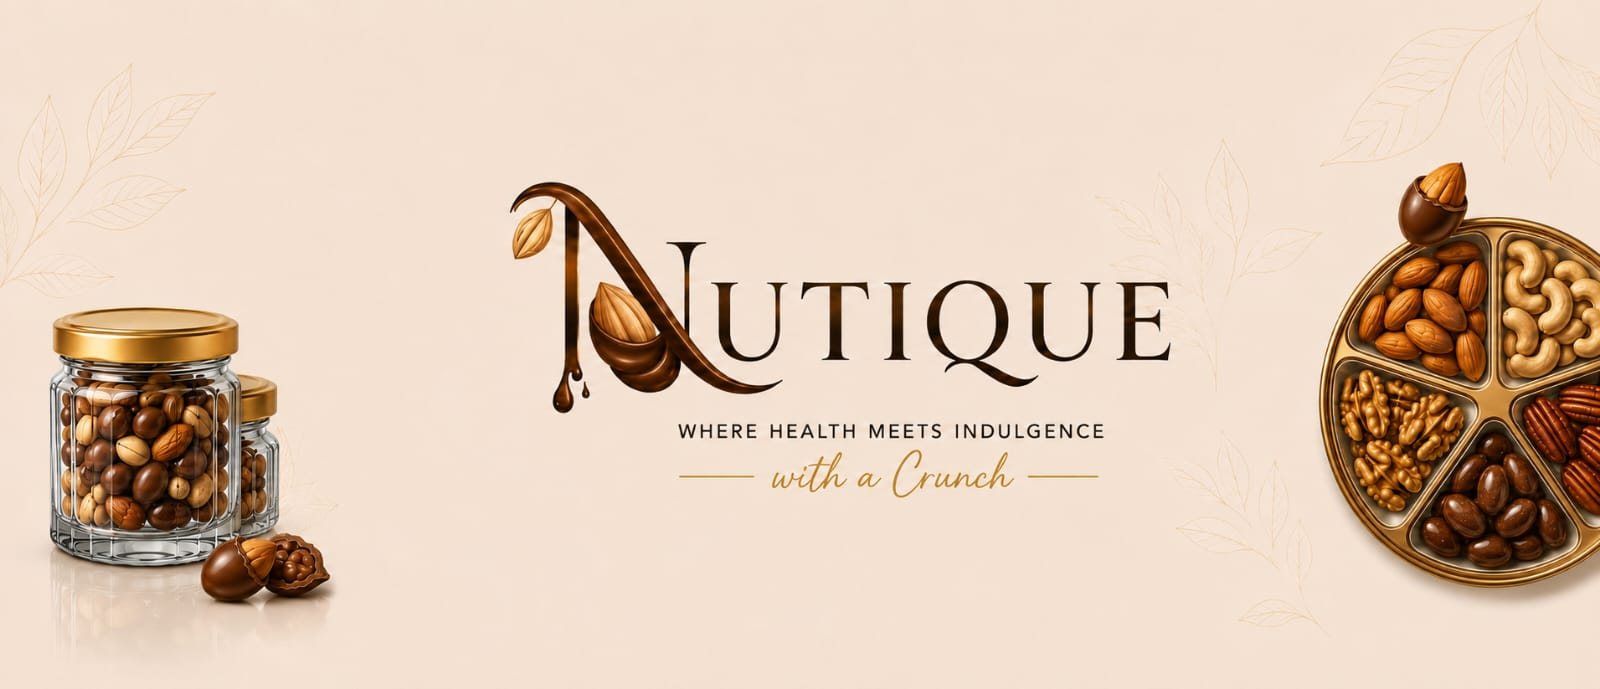
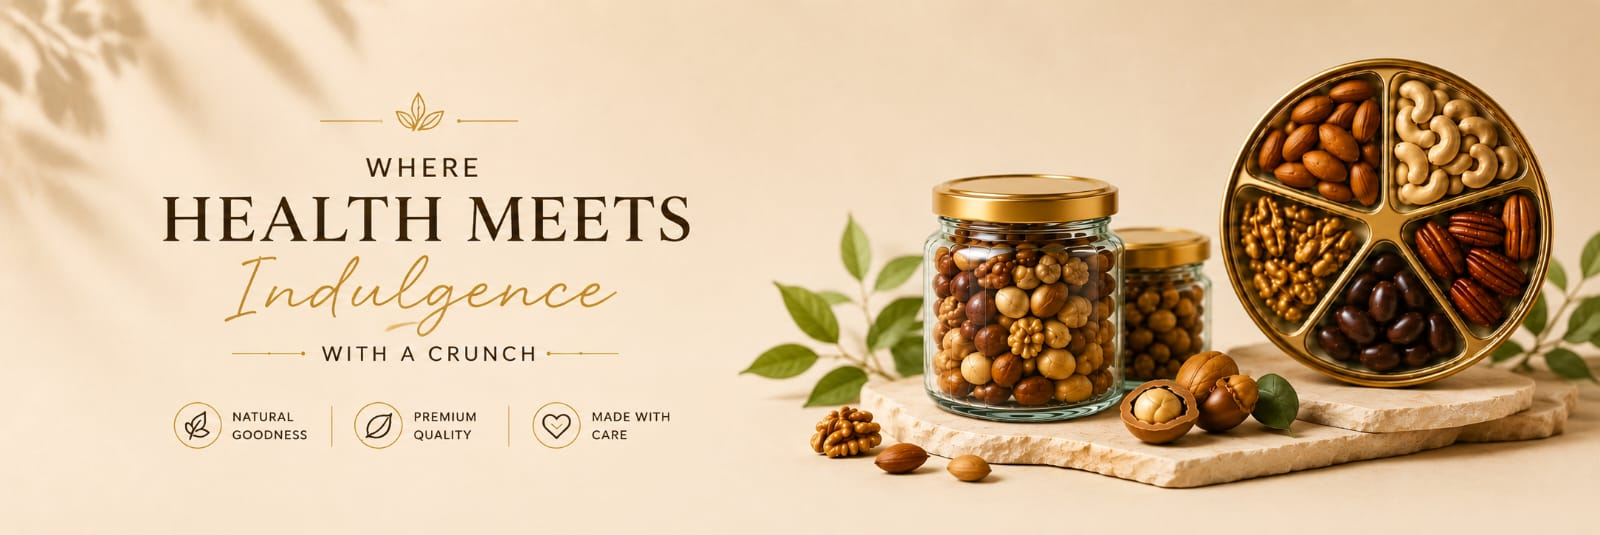
add

diff --git a/index.html b/index.html
@@ -150,8 +150,8 @@
                         <!-- Left Side: Image -->
                         <div class="promo-image">
                             <a >
-                                <img src="https://cdn.shopify.com/s/files/1/0616/8464/6110/files/Image-under-the-banner---mothers-day-3.png?v=1777012134"
-                                    alt="Mother's Day Collection">
+                                <img src="assets/MIX.jpeg"
+                                    alt="The Nutique Signature Medley">
                             </a>
                         </div>
 
@@ -190,7 +190,7 @@
                         <div class="category-item">
                             <div class="category-image-wrapper">
                                 <a >
-                                    <img src="https://www.lalschocolates.com/cdn/shop/files/Best-wishes-eid-hamper-image-1b_1_1_540x.jpg?v=1756293482"
+                                    <img src="assets/almonds.jpeg"
                                         alt="Gift Hampers">
                                 </a>
                             </div>
@@ -205,7 +205,7 @@
                         <div class="category-item">
                             <div class="category-image-wrapper">
                                 <a >
-                                    <img src="https://www.lalschocolates.com/cdn/shop/files/confetti_cake_1_1_1_540x.jpg?v=1756293498"
+                                    <img src="assets/cashew.jpeg"
                                         alt="Cakes">
                                 </a>
                             </div>
@@ -220,7 +220,7 @@
                         <!-- Item 3: Gelato -->
                         <div class="category-item">
                             <div class="category-image-wrapper">
-                                    <img src="https://www.lalschocolates.com/cdn/shop/files/freshly_made_gelato-min_540x.webp?v=1709201721"
+                                    <img src="assets/peanuts.jpeg"
                                         alt="Gelato">
                                 </a>
                             </div>
@@ -238,7 +238,7 @@
                         <div class="category-item">
                             <div class="category-image-wrapper">
                                 <a >
-                                    <img src="https://www.lalschocolates.com/cdn/shop/files/Best-wishes-eid-hamper-image-1b_1_1_540x.jpg?v=1756293482"
+                                    <img src="assets/pista.jpeg"
                                         alt="Gift Hampers">
                                 </a>
                             </div>
@@ -254,7 +254,7 @@
                         <div class="category-item">
                             <div class="category-image-wrapper">
                                 <a >
-                                    <img src="https://www.lalschocolates.com/cdn/shop/files/confetti_cake_1_1_1_540x.jpg?v=1756293498"
+                                    <img src="assets/rasins.jpeg"
                                         alt="Cakes">
                                 </a>
                             </div>
@@ -270,7 +270,7 @@
                         <div class="category-item">
                             <div class="category-image-wrapper">
                                 <a >
-                                    <img src="https://www.lalschocolates.com/cdn/shop/files/freshly_made_gelato-min_540x.webp?v=1709201721"
+                                    <img src="assets/wallnuts.jpeg"
                                         alt="Gelato">
                                 </a>
                             </div>

diff --git a/products/Cashew.html b/products/Cashew.html
@@ -132,7 +132,7 @@
                     <div class="product-images-col">
                         <div class="sticky-image-wrapper">
                             <div class="main-image-container">
-                                <img src="https://www.lalschocolates.com/cdn/shop/products/choccoatedalmonds.jpg?v=1672313245"
+                                <img src="../assets/cashew.jpeg"
                                     alt="Chocolate Coated Almonds" class="primary-img">
                                 <div class="zoom-icon">
                                     <i class="pe-7s-expand1"></i>

diff --git a/products/Peanut.html b/products/Peanut.html
@@ -131,7 +131,7 @@
                     <div class="product-images-col">
                         <div class="sticky-image-wrapper">
                             <div class="main-image-container">
-                                <img src="https://www.lalschocolates.com/cdn/shop/products/choccoatedalmonds.jpg?v=1672313245"
+                                <img src="../assets/peanuts.jpeg"
                                     alt="Chocolate Coated Almonds" class="primary-img">
                                 <div class="zoom-icon">
                                     <i class="pe-7s-expand1"></i>

diff --git a/products/Pistachio.html b/products/Pistachio.html
@@ -131,7 +131,7 @@
                     <div class="product-images-col">
                         <div class="sticky-image-wrapper">
                             <div class="main-image-container">
-                                <img src="https://www.lalschocolates.com/cdn/shop/products/choccoatedalmonds.jpg?v=1672313245"
+                                <img src="../assets/pista.jpeg"
                                     alt="Chocolate Coated Almonds" class="primary-img">
                                 <div class="zoom-icon">
                                     <i class="pe-7s-expand1"></i>

diff --git a/products/Raisins.html b/products/Raisins.html
@@ -132,7 +132,7 @@
                     <div class="product-images-col">
                         <div class="sticky-image-wrapper">
                             <div class="main-image-container">
-                                <img src="https://www.lalschocolates.com/cdn/shop/products/choccoatedalmonds.jpg?v=1672313245"
+                                <img src="../assets/rasins.jpeg"
                                     alt="Chocolate Coated Almonds" class="primary-img">
                                 <div class="zoom-icon">
                                     <i class="pe-7s-expand1"></i>

diff --git a/products/Walnut.html b/products/Walnut.html
@@ -131,7 +131,7 @@
                     <div class="product-images-col">
                         <div class="sticky-image-wrapper">
                             <div class="main-image-container">
-                                <img src="https://www.lalschocolates.com/cdn/shop/products/choccoatedalmonds.jpg?v=1672313245"
+                                <img src="../assets/wallnuts.jpeg"
                                     alt="Chocolate Coated Almonds" class="primary-img">
                                 <div class="zoom-icon">
                                     <i class="pe-7s-expand1"></i>

diff --git a/products/almonds.html b/products/almonds.html
@@ -132,7 +132,7 @@
                     <div class="product-images-col">
                         <div class="sticky-image-wrapper">
                             <div class="main-image-container">
-                                <img src="https://www.lalschocolates.com/cdn/shop/products/choccoatedalmonds.jpg?v=1672313245"
+                                <img src="../assets/almonds.jpeg"
                                     alt="Chocolate Coated Almonds" class="primary-img">
                                 <div class="zoom-icon">
                                     <i class="pe-7s-expand1"></i>

diff --git a/products/mix.html b/products/mix.html
@@ -132,7 +132,7 @@
                     <div class="product-images-col">
                         <div class="sticky-image-wrapper">
                             <div class="main-image-container">
-                                <img src="https://www.lalschocolates.com/cdn/shop/products/choccoatedalmonds.jpg?v=1672313245"
+                                <img src="../assets/MIX.jpeg"
                                     alt="Chocolate Coated Almonds" class="primary-img">
                                 <div class="zoom-icon">
                                     <i class="pe-7s-expand1"></i>